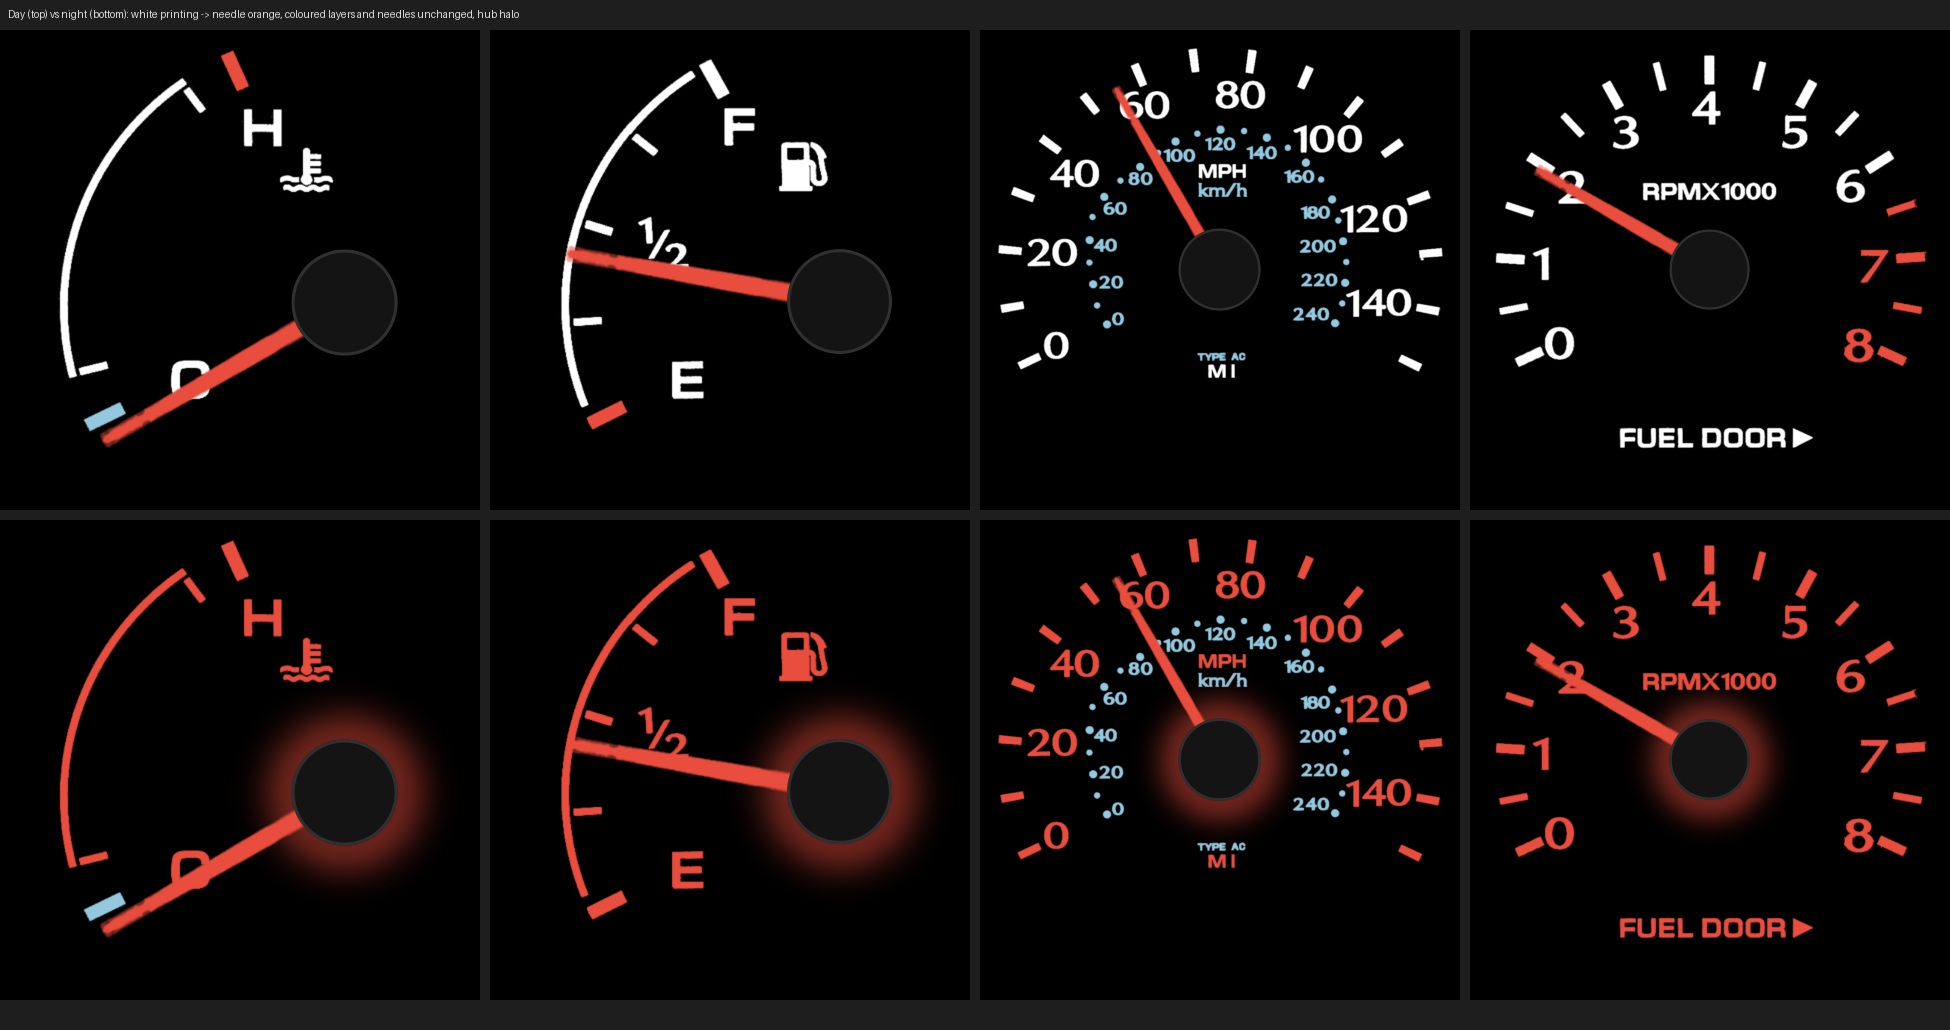
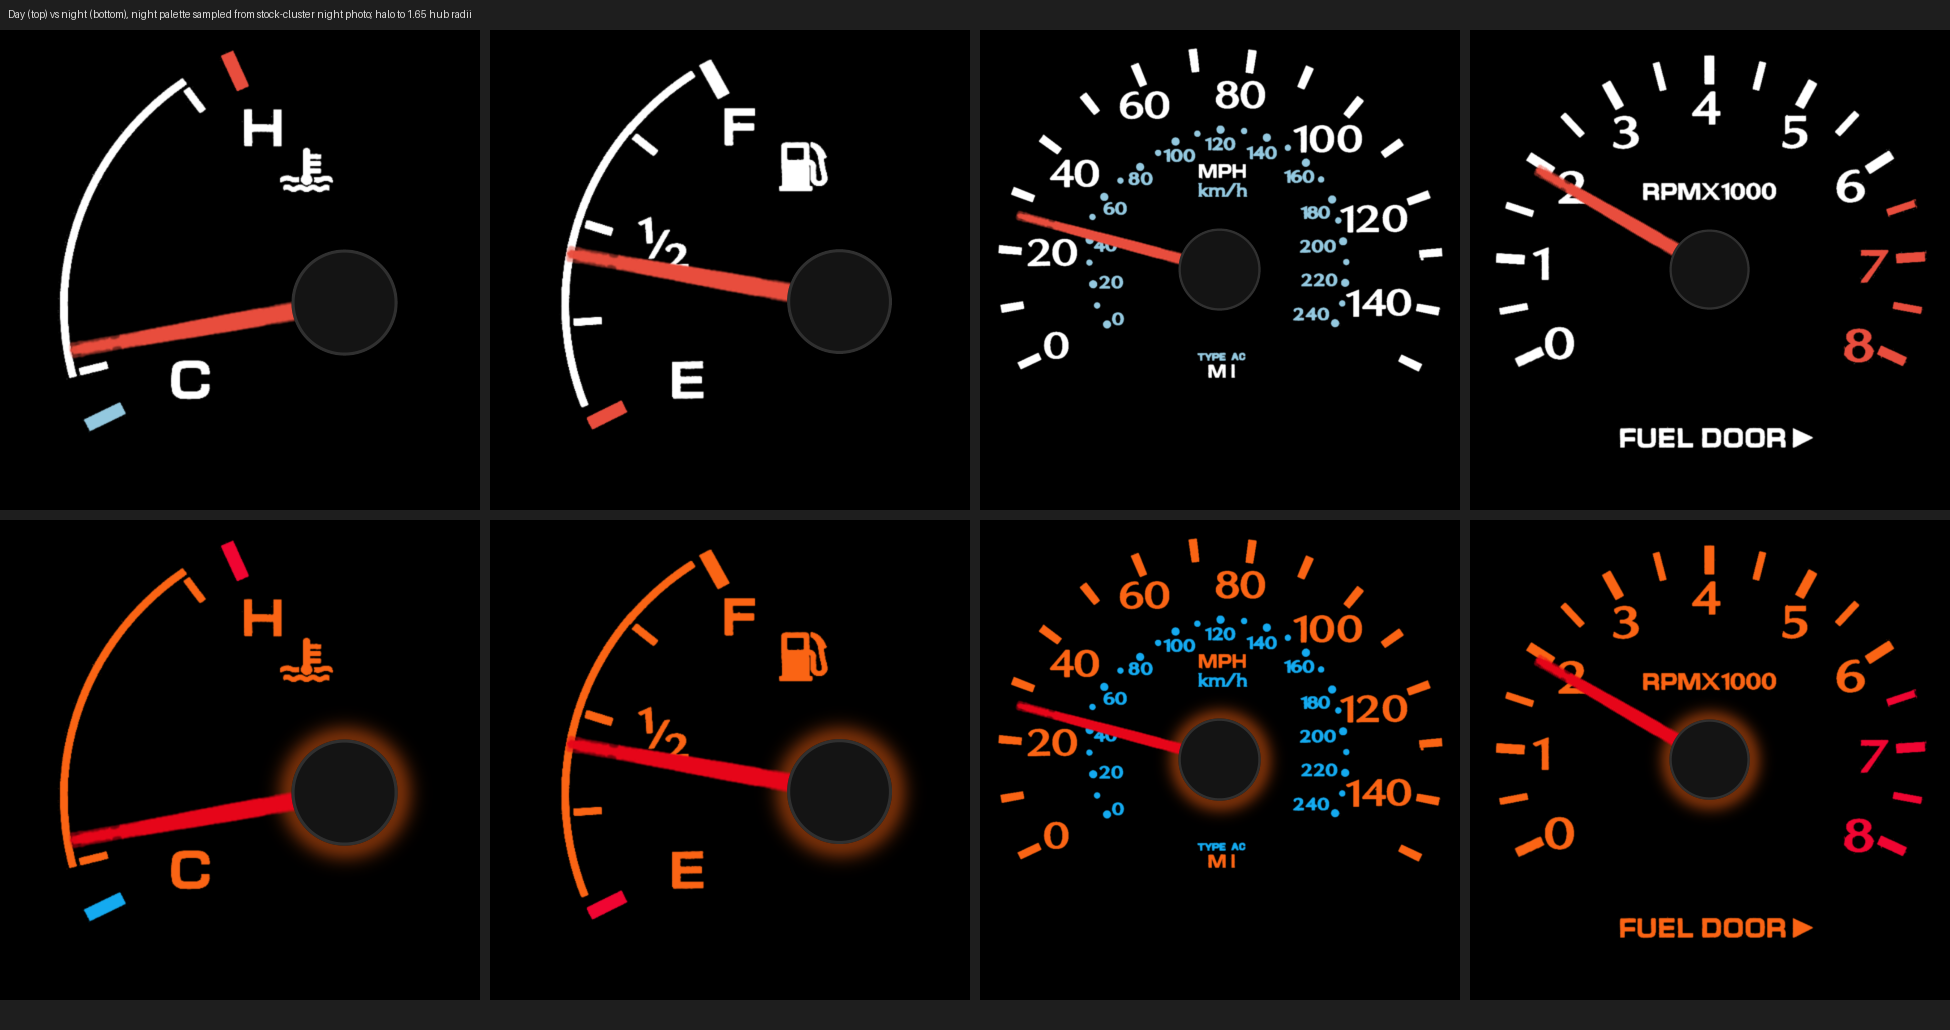
Night palette from stock photo, halo halved, needles red at night

diff --git a/tools/night/night_preview.py b/tools/night/night_preview.py
@@ -1,45 +1,53 @@
-"""Night-mode preview: white printing -> needle orange (A8-mask recolor), coloured layers unchanged,
-plus a soft glow around the needle hub. Sampled from the owner's night photo (2026-10-14):
-un-blown glyph edges ~RGB 235,54,40 ~= needle orange 232,77,61."""
-import json, numpy as np
-from PIL import Image, ImageDraw, ImageFont
+"""Night-mode preview using art/night_palette.json (sampled from the owner's stock-cluster night photo).
+Day face layers -> night: white printing -> printing_orange; needle-orange ticks/digits (tach 6500+, 7, 8, H tick, E tick) -> red_ticks;
+km/h blue and cold tick -> kmh_and_cold_blue; needles -> needles red; plus a soft halo around each hub.
+Anti-aliasing is preserved by scaling the target colour by pixel brightness relative to the day reference colour."""
+import json, colorsys, numpy as np
+from PIL import Image, ImageDraw
 F=json.load(open('art/faces/faces.json'))['gauges']; N=json.load(open('art/needles/needles.json'))
-ORANGE=np.array(N['color_rgb'],float)
-HALO=dict(inner=1.0, outer=2.3, peak=0.45)   # radii in hub radii, peak opacity
+P=json.load(open('art/night_palette.json')); H=P['halo']
+C={k:np.array(P[k],float) for k in ('printing_orange','kmh_and_cold_blue','red_ticks','needles')}
+def hue_sat(a):
+    mx=a.max(2); mn=a.min(2); d=mx-mn; sat=np.where(mx>0,d/np.maximum(mx,1),0)
+    r,g,b=a[...,0],a[...,1],a[...,2]; dd=np.maximum(d,1e-6)
+    h=np.where(mx==r,((g-b)/dd)%6,np.where(mx==g,(b-r)/dd+2,(r-g)/dd+4))*60
+    return h,sat,mx
 def night_face(rgb):
-    a=rgb.astype(float); mx=a.max(2); mn=a.min(2); sat=(mx-mn)/np.maximum(mx,1)
-    white=(sat<0.25)                                  # low-saturation pixels = white printing (incl. anti-aliasing)
-    alpha=(mn/255.0)*white                            # A8 mask: brightness of the white print
-    out=a.copy()
-    out[white]=0
-    out+=alpha[...,None]*ORANGE
-    return np.clip(out,0,255), alpha
+    a=rgb.astype(float); h,s,v=hue_sat(a); out=np.zeros_like(a)
+    white=s<0.25; red=(~white)&((h<40)|(h>330)); blue=(~white)&(h>150)&(h<260)
+    out[white]=(a[white].min(1)/255.0)[:,None]*C['printing_orange']
+    out[red]=np.minimum(v[red]/232.0,1)[:,None]*C['red_ticks']
+    out[blue]=np.minimum(v[blue]/223.0,1)[:,None]*C['kmh_and_cold_blue']
+    return np.clip(out,0,255)
 def halo(shape,c,r):
     yy,xx=np.mgrid[:shape[0],:shape[1]]; d=np.hypot(xx-c[0],yy-c[1])/r
-    g=np.where(d<HALO['inner'],1.0,np.exp(-((d-HALO['inner'])/((HALO['outer']-HALO['inner'])/2.2))**2))
-    g[d>HALO['outer']*1.3]=0
-    return g*HALO['peak']
+    w=(H['outer_hub_radii']-H['inner_hub_radii'])/2.2
+    g=np.where(d<H['inner_hub_radii'],1.0,np.exp(-((d-H['inner_hub_radii'])/w)**2))
+    g[d>H['outer_hub_radii']*1.3]=0
+    return g*H['peak_opacity']
+def needle_img(path,night):
+    nd=Image.open(path).convert('RGBA')
+    if not night: return nd
+    a=np.asarray(nd).astype(float); lum=a[...,:3].max(2)/232.0
+    a[...,:3]=np.clip(lum[...,None],0,1)*C['needles']; return Image.fromarray(a.astype(np.uint8),'RGBA')
 def compose(k,angle,night):
     g=F[k]; n=N['gauges'][k]; face=np.asarray(Image.open(f'art/faces/{k}_480.png').convert('RGB'))
     img=face.astype(float)
     if night:
-        img,_=night_face(face)
-        hr=g['hub_radius_mm']*g['px_per_mm']; h=halo(img.shape,g['pivot_px'],hr)
-        img=img*(1-h[...,None])+ORANGE*h[...,None]
+        img=night_face(face); hc=C[H['color']]
+        hm=halo(img.shape,g['pivot_px'],g['hub_radius_mm']*g['px_per_mm']); img=img*(1-hm[...,None])+hc*hm[...,None]
     im=Image.fromarray(img.astype(np.uint8)).convert('RGBA')
-    nd=Image.open(f"art/needles/{n['needle_png']}").convert('RGBA'); px,py=n['pivot_px']
-    W=int(2*max(nd.size)+4); canvas=Image.new('RGBA',(W,W)); canvas.paste(nd,(int(W/2-px),int(W/2-py)))
-    canvas=canvas.rotate(-angle,resample=Image.BICUBIC,center=(W/2,W/2))
-    cx,cy=g['pivot_px']; im.alpha_composite(canvas,(int(cx-W/2),int(cy-W/2)))
+    nd=needle_img(f"art/needles/{n['needle_png']}",night); px,py=n['pivot_px']
+    W=int(2*max(nd.size)+4); cv=Image.new('RGBA',(W,W)); cv.paste(nd,(int(W/2-px),int(W/2-py)))
+    cv=cv.rotate(-angle,resample=Image.BICUBIC,center=(W/2,W/2)); cx,cy=g['pivot_px']
+    im.alpha_composite(cv,(int(cx-W/2),int(cy-W/2)))
     hub=Image.open(f"art/needles/{n['hub_png']}").convert('RGBA'); im.alpha_composite(hub,(int(cx-hub.size[0]/2),int(cy-hub.size[1]/2)))
     return im.convert('RGB')
 if __name__=='__main__':
-    ang={'tach':-60,'speedo':-30,'temp':-120,'fuel':-80}
-    rows=[]
-    for k in ('temp','fuel','speedo','tach'):
-        rows.append((compose(k,ang[k],False),compose(k,ang[k],True)))
-    W=480*4+30; out=Image.new('RGB',(W,480*2+70),(30,30,30)); d=ImageDraw.Draw(out)
-    for i,(day,night) in enumerate(rows):
-        out.paste(day,(i*490,30)); out.paste(night,(i*490,30+480+10))
-    d.text((8,8),'Day (top) vs night (bottom): white printing -> needle orange, coloured layers and needles unchanged, hub halo',fill=(220,220,220))
+    ang={'tach':-60,'speedo':-75,'temp':-100,'fuel':-80}
+    out=Image.new('RGB',(480*4+30,480*2+70),(30,30,30)); d=ImageDraw.Draw(out)
+    for i,k in enumerate(('temp','fuel','speedo','tach')):
+        out.paste(compose(k,ang[k],False),(i*490,30)); out.paste(compose(k,ang[k],True),(i*490,520))
+        compose(k,ang[k],True).save(f'art/preview/{k}_480_night.png')
+    d.text((8,8),'Day (top) vs night (bottom), night palette sampled from stock-cluster night photo; halo to 1.65 hub radii',fill=(220,220,220))
     out.save('art/preview/night_mode_preview.png'); print('ok')

diff --git a/docs/PLAN.md b/docs/PLAN.md
@@ -23,7 +23,7 @@ Status: Phase 0 (discovery). Prepared 2026-10-12. Rev 2: decisions log added (se
 | 2026-10-14 | The cluster can't be scanned non-destructively. v2 faces and overlay rebuilt from needle-free photos with geometric rectification (section 4.2d). |
 | 2026-10-14 | Frame leveled: rotated 2.17° CCW. Printed text (RPMX1000, FUEL DOOR, MPH, km/h, TYPE AC, MI) measured 2.05–2.30° clockwise; it now reads 0.0°. Dial sweeps are within 0.5° of symmetric about vertical. Tach 0 tick rebuilt from the 1000 rpm tick (the knob post hid its end); the stop-pin mask by the 8 was tightened. |
 | 2026-10-14 | Odometer goes digital (owner): the drum module is too large to keep (rear photos IMG_7579/7580/7582). Odometer is drawn in the bottom of the speedo face, trip meter where FUEL DOOR is printed on the tach. Exact stock text placement is not required. Speedo must stay stock size; the tach may shrink slightly. The white rear body will be trimmed to take the screens. |
-| 2026-10-14 | Night mode (owner): with the headlamp switch on, all white face printing turns orange. The needle-orange 6500+ ticks and 7/8 digits (RGB 232,77,61), the blue km/h scale and the needles do not change. How: each face is split into an A8 alpha mask of the white printing (recolored at runtime by LVGL `img_recolor`) plus fixed-color layers, so there is one face set and no separate night set. The headlamp input (12 V, through an optocoupler or protected divider) is read by the hub and sent as a lights-on bit in frame 0x6A0. Night orange = needle orange (RGB 232,77,61): the owner's night photo of the reference car shows the printing and the redline zone blending to one color, with un-blown glyph edges sampling about RGB 235,54,40. Night-only hub halo: a soft needle-orange glow from the hub edge out to about 2.3 hub radii, peak opacity 0.45, drawn under the needle and hub cap (`tools/night/night_preview.py`, `art/preview/night_mode_preview.png`). Its intensity is a tunable, not matched to the long-exposure photo. |
+| 2026-10-14 | Night mode (owner, revised): palette from the owner's stock-cluster night photo, stored in `art/night_palette.json`. White printing becomes orange RGB 250,100,20. The km/h scale and cold tick become blue 20,170,240. Needle-orange ticks and digits (tach 6500+, 7, 8, H tick, E tick) become red 240,5,50. Needles become red 230,5,25, replacing the earlier "needles unchanged". Applies to all four gauges. A slight hub halo (owner wants it even though stock has none): printing orange, from the hub edge to 1.65 hub radii (half the earlier width), peak opacity 0.45. Implementation: per-color A8 mask layers recolored at runtime. Preview: `tools/night/night_preview.py` -> `art/preview/night_mode_preview.png`, `art/preview/*_480_night.png`. The colors come from a compressed video frame with unknown white balance, so they are a starting point to tune on the real screens. |
 | 2026-10-14 | Owner: the cluster housing may be trimmed (there is clearance around the installed cluster). Only the visible areas must stay on the face. Owner prefers the off-the-shelf 86% speedo. Proposed off-the-shelf layout (`docs/layout/screen_layout_v3.png`, `tools/screen_layout_v3.py`): speedo Waveshare ESP32-P4-WIFI6-Touch-LCD-3.4C (115 x 115 mm, Ø87.6 visible, art at 0.86); tach 2.8" round ESP32-S3 board (Waveshare 2.8C or LilyGO T-RGB, Ø70.1 visible, art at 0.887); temp+fuel Waveshare ESP32-S3-Touch-LCD-5 (127.7 x 87.45 mm, full-size art). Speedo and tach move 6 mm right, temp/fuel 7 mm left; boards are 1.2–1.4 mm apart; all visible holes are 3 mm or more inside the face outline. The speedo glass corners extend about 3 mm past the top and bottom of the housing. The fuel-to-speedo hole gap grows from 6.3 to 26.7 mm (set by the 3.4C glass border). Unverified: the 2.8" board outline (assumed Ø95.86 round) and whether the 5" active area is centered on its board. |
 | 2026-10-14 | Owner removing all physical indicator lamps. Revised proposal (drawing `docs/layout/screen_layout_v2.png`): bare 4.0" speedo + bare 3.4" tach at full size (6.8 mm gap) + bare 5" for temp/fuel, with the temp/fuel holes and art moved 4.5 mm left (1 mm clear of the speedo). All three fit inside the cluster outline. Against an assumed 3 mm wall, the speedo is 1.6 mm over at the bottom and the 5" corner 1.7 mm over at the top left. Waveshare 4C/3.4C dev boards do not fit (square glass taller than the cluster), even with the tach moved 14 mm. Tach on 3.4" needs a second ESP32-P4. |
 | 2026-10-14 | Screen layout PROPOSED (section 4.2e): 4.0" round 720x720 speedo (ESP32-P4), 2.8" round 480x480 tach at about 89% art scale (ESP32-S3), one 5" 800x480 behind temp+fuel (ESP32-S3). Three display boards plus the hub. Pending owner approval. |
